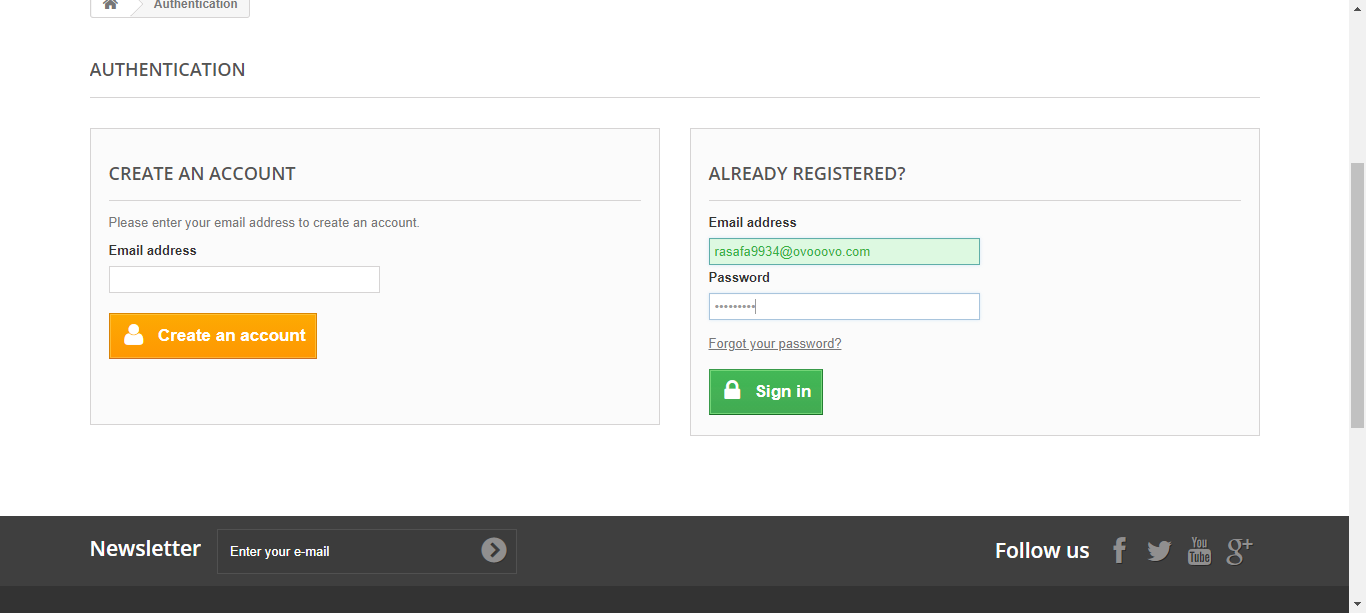
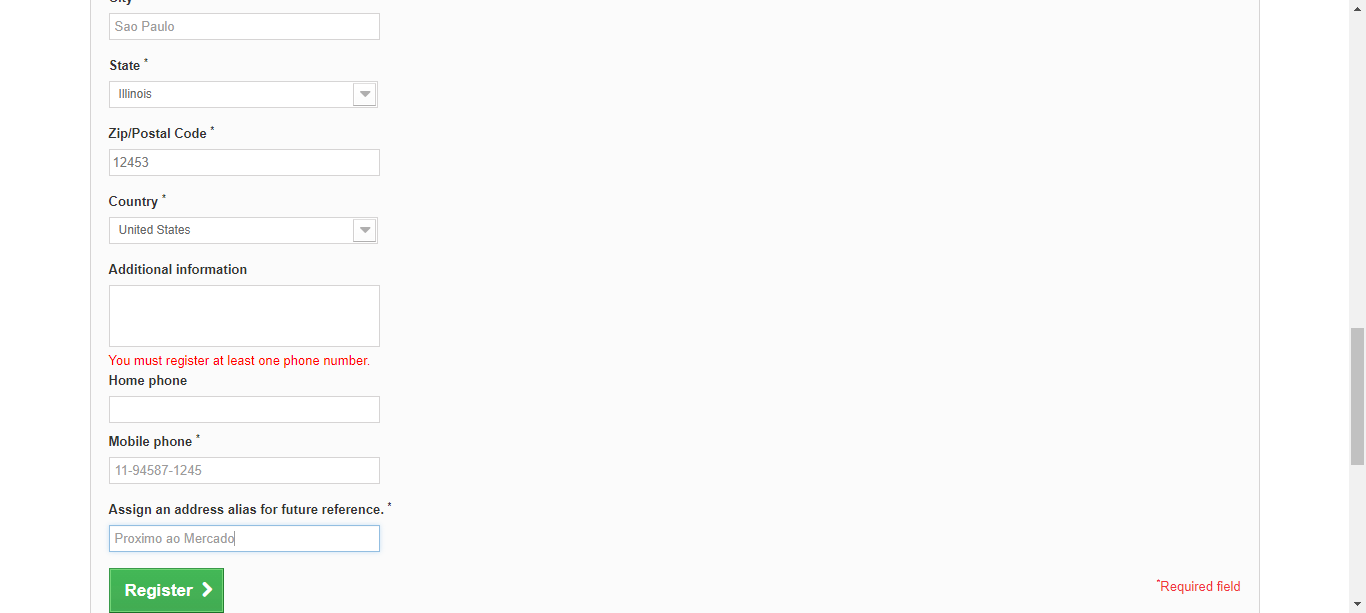
Automação site Automation

diff --git a/log.html b/log.html
@@ -1796,25 +1796,25 @@ function stopPropagation(event) {
 window.output = {};
 </script>
 <script type="text/javascript">
-window.output["suite"] = [1,2,3,0,[],[1,0,11512],[],[[4,0,0,[],[1,208,11302],[[0,5,6,0,7,8,0,0,[1,209,4960],[[8,210,2,9]]],[0,10,6,0,11,0,0,0,[1,5169,132],[]],[0,12,6,0,13,14,0,0,[1,5302,1602],[[8,5303,2,15]]],[0,16,6,0,17,18,0,0,[1,6905,141],[[8,6905,2,19]]],[0,16,6,0,17,20,0,0,[1,7047,134],[[8,7048,2,21]]],[0,22,6,0,23,0,0,0,[1,7182,204],[[8,7386,2,24]]],[0,12,6,0,13,25,0,0,[1,7388,1643],[[8,7389,2,26]]],[0,27,6,0,28,29,0,0,[1,9034,36],[[8,9070,2,30]]],[0,22,6,0,23,0,0,0,[1,9071,195],[[8,9266,2,31]]],[0,32,6,0,33,0,0,0,[1,9267,2242],[]]]]],[],[1,1,0,0]];
+window.output["suite"] = [1,2,3,0,[],[1,0,14522],[],[[4,0,0,[],[1,212,14306],[[0,5,6,0,7,8,0,0,[1,213,4548],[[8,214,2,9]]],[0,10,6,0,11,0,0,0,[1,4761,161],[]],[0,12,6,0,13,14,0,0,[1,4925,10],[]],[0,15,6,0,16,17,0,0,[1,4936,1239],[[8,4937,2,18]]],[0,19,6,0,20,21,0,0,[1,6176,483],[]],[0,22,6,0,23,24,0,0,[1,6660,117],[[8,6661,2,25]]],[0,15,6,0,16,26,0,0,[1,6778,69],[[8,6778,2,27]]],[0,19,6,0,20,28,0,0,[1,6847,1345],[]],[0,15,6,0,16,28,0,0,[1,8193,63],[[8,8193,2,29]]],[0,19,6,0,20,30,0,0,[1,8257,26],[]],[0,22,6,0,23,31,0,0,[1,8283,114],[[8,8283,2,32]]],[0,15,6,0,16,33,0,0,[1,8397,67],[[8,8397,2,34]]],[0,22,6,0,23,35,0,0,[1,8464,84],[[8,8465,2,36]]],[0,19,6,0,20,37,0,0,[1,8549,28],[]],[0,22,6,0,23,38,0,0,[1,8578,159],[[8,8578,2,39]]],[0,40,6,0,41,42,0,0,[1,8740,94],[[8,8741,2,43]]],[0,40,6,0,41,44,0,0,[1,8835,93],[[8,8836,2,45]]],[0,40,6,0,41,46,0,0,[1,8928,99],[[8,8929,2,47]]],[0,15,6,0,16,48,0,0,[1,9027,70],[[8,9028,2,49]]],[0,22,6,0,23,50,0,0,[1,9097,80],[[8,9098,2,51]]],[0,19,6,0,20,48,0,0,[1,9178,20],[]],[0,15,6,0,16,52,0,0,[1,9198,63],[[8,9199,2,53]]],[0,22,6,0,23,54,0,0,[1,9262,80],[[8,9262,2,55]]],[0,19,6,0,20,52,0,0,[1,9343,22],[]],[0,56,6,0,57,58,0,0,[1,9365,305],[]],[0,40,6,0,41,59,0,0,[1,9671,95],[[8,9671,2,60]]],[0,15,6,0,16,61,0,0,[1,9767,85],[[8,9768,2,62]]],[0,22,6,0,23,63,0,0,[1,9853,79],[[8,9853,2,64]]],[0,40,6,0,41,65,0,0,[1,9932,55],[[8,9933,2,66]]],[0,15,6,0,16,58,0,0,[1,9987,61],[[8,9988,2,67]]],[0,22,6,0,23,68,0,0,[1,10049,78],[[8,10050,2,69]]],[0,56,6,0,57,70,0,0,[1,10127,284],[]],[0,15,6,0,16,71,0,0,[1,10413,76],[[8,10414,2,72]]],[0,22,6,0,23,73,0,0,[1,10491,104],[[8,10492,2,74]]],[0,75,6,0,76,0,0,0,[1,10596,120],[[8,10716,2,77]]],[0,15,6,0,16,70,0,0,[1,10718,1288],[[8,10718,2,78]]],[0,79,6,0,80,81,0,0,[1,12007,25],[[8,12032,2,82]]],[0,75,6,0,76,0,0,0,[1,12032,210],[[8,12242,2,83]]],[0,84,6,0,85,0,0,0,[1,12244,2272],[]]]]],[],[1,1,0,0]];
 </script>
 <script type="text/javascript">
 window.output["strings"] = [];
 </script>
 <script type="text/javascript">
-window.output["strings"] = window.output["strings"].concat(["*","*Login","*C:\\Users\\rillipronti\\Desktop\\SISTreinamento\\test\\Login.robot","*test/Login.robot","*Cenario: Login na aplicação","*Open Browser","*SeleniumLibrary","*<p>Opens a new browser instance to the optional <code>url\x3c/code>.\x3c/p>","*<a href=\"http://automationpractice.com/index.php\">http://automationpractice.com/index.php\x3c/a>, chrome","*Opening browser 'chrome' to base url '<a href=\"http://automationpractice.com/index.php\">http://automationpractice.com/index.php\x3c/a>'.","*Maximize Browser Window","*<p>Maximizes current browser window.\x3c/p>","*Click Element","*<p>Click the element identified by <code>locator\x3c/code>.\x3c/p>","*xpath=//a[@class='login']","*Clicking element 'xpath=//a[@class='login']'.","*Input Text","*<p>Types the given <code>text\x3c/code> into the text field identified by <code>locator\x3c/code>.\x3c/p>","*id=email, rasafa9934@ovooovo.com","*Typing text 'rasafa9934@ovooovo.com' into text field 'id=email'.","*id=passwd, Teste@123","*Typing text 'Teste@123' into text field 'id=passwd'.","*Capture Page Screenshot","*<p>Takes a screenshot of the current page and embeds it into a log file.\x3c/p>","*\x3c/td>\x3c/tr><tr><td colspan=\"3\"><a href=\"selenium-screenshot-1.png\"><img src=\"selenium-screenshot-1.png\" width=\"800px\">\x3c/a>","*id=SubmitLogin","*Clicking element 'id=SubmitLogin'.","*Page Should Contain","*<p>Verifies that current page contains <code>text\x3c/code>.\x3c/p>","*Marcos, Barbos","*Current page contains text 'Marcos'.","*\x3c/td>\x3c/tr><tr><td colspan=\"3\"><a href=\"selenium-screenshot-2.png\"><img src=\"selenium-screenshot-2.png\" width=\"800px\">\x3c/a>","*Close Browser","*<p>Closes the current browser.\x3c/p>"]);
+window.output["strings"] = window.output["strings"].concat(["*","*Cadastro","*C:\\Users\\rillipronti\\Desktop\\SISTreinamento\\test\\Cadastro.robot","*test/Cadastro.robot","*Cenario: Login na aplicação","*Open Browser","*SeleniumLibrary","*<p>Opens a new browser instance to the optional <code>url\x3c/code>.\x3c/p>","*<a href=\"http://automationpractice.com/index.php\">http://automationpractice.com/index.php\x3c/a>, chrome","*Opening browser 'chrome' to base url '<a href=\"http://automationpractice.com/index.php\">http://automationpractice.com/index.php\x3c/a>'.","*Maximize Browser Window","*<p>Maximizes current browser window.\x3c/p>","*Set Selenium Timeout","*<p>Sets the timeout that is used by various keywords.\x3c/p>","*60","*Click Element","*<p>Click the element identified by <code>locator\x3c/code>.\x3c/p>","*xpath=//a[@class='login']","*Clicking element 'xpath=//a[@class='login']'.","*Wait Until Element Is Visible","*<p>Waits until the element <code>locator\x3c/code> is visible.\x3c/p>","*id=email_create","*Input Text","*<p>Types the given <code>text\x3c/code> into the text field identified by <code>locator\x3c/code>.\x3c/p>","*id=email_create, tohov63129423897@dedatre.com","*Typing text 'tohov63129423897@dedatre.com' into text field 'id=email_create'.","*xpath=//button[@class='btn btn-default button button-medium exclusive']","*Clicking element 'xpath=//button[@class='btn btn-default button button-medium exclusive']'.","*id=id_gender1","*Clicking element 'id=id_gender1'.","*id=customer_firstname","*id=customer_firstname, Renan","*Typing text 'Renan' into text field 'id=customer_firstname'.","*id=customer_lastname","*Clicking element 'id=customer_lastname'.","*id=customer_lastname, Illipronti","*Typing text 'Illipronti' into text field 'id=customer_lastname'.","*id=passwd","*id=passwd, 12345@6","*Typing text '12345@6' into text field 'id=passwd'.","*Select From List By Value","*<p>Selects options from selection list <code>locator\x3c/code> by <code>values\x3c/code>.\x3c/p>","*id:days, 22","*Selecting options from selection list 'id:days' by value 22.","*id:months, 1","*Selecting options from selection list 'id:months' by value 1.","*id:years, 1990","*Selecting options from selection list 'id:years' by value 1990.","*id=address1","*Clicking element 'id=address1'.","*id=address1, Rua Abcd, nº100","*Typing text 'Rua Abcd, nº100' into text field 'id=address1'.","*id=city","*Clicking element 'id=city'.","*id=city, Sao Paulo","*Typing text 'Sao Paulo' into text field 'id=city'.","*Scroll Element Into View","*<p>Scrolls the element identified by <code>locator\x3c/code> into view.\x3c/p>","*id=phone_mobile","*id:id_state, 13","*Selecting options from selection list 'id:id_state' by value 13.","*id=postcode","*Clicking element 'id=postcode'.","*id=postcode, 12453","*Typing text '12453' into text field 'id=postcode'.","*id:id_country, 21","*Selecting options from selection list 'id:id_country' by value 21.","*Clicking element 'id=phone_mobile'.","*id=phone_mobile, 11-94587-1245","*Typing text '11-94587-1245' into text field 'id=phone_mobile'.","*id=submitAccount","*id=alias","*Clicking element 'id=alias'.","*id=alias, Proximo ao Mercado","*Typing text 'Proximo ao Mercado' into text field 'id=alias'.","*Capture Page Screenshot","*<p>Takes a screenshot of the current page and embeds it into a log file.\x3c/p>","*\x3c/td>\x3c/tr><tr><td colspan=\"3\"><a href=\"selenium-screenshot-1.png\"><img src=\"selenium-screenshot-1.png\" width=\"800px\">\x3c/a>","*Clicking element 'id=submitAccount'.","*Page Should Contain","*<p>Verifies that current page contains <code>text\x3c/code>.\x3c/p>","*Renan, Illipronti","*Current page contains text 'Renan'.","*\x3c/td>\x3c/tr><tr><td colspan=\"3\"><a href=\"selenium-screenshot-2.png\"><img src=\"selenium-screenshot-2.png\" width=\"800px\">\x3c/a>","*Close Browser","*<p>Closes the current browser.\x3c/p>"]);
 </script>
 <script type="text/javascript">
-window.output["stats"] = [[{"elapsed":"00:00:11","fail":0,"label":"All Tests","pass":1,"skip":0}],[],[{"elapsed":"00:00:12","fail":0,"id":"s1","label":"Login","name":"Login","pass":1,"skip":0}]];
+window.output["stats"] = [[{"elapsed":"00:00:14","fail":0,"label":"All Tests","pass":1,"skip":0}],[],[{"elapsed":"00:00:15","fail":0,"id":"s1","label":"Cadastro","name":"Cadastro","pass":1,"skip":0}]];
 </script>
 <script type="text/javascript">
 window.output["errors"] = [];
 </script>
 <script type="text/javascript">
-window.output["baseMillis"] = 1626739334614;
+window.output["baseMillis"] = 1626822029169;
 </script>
 <script type="text/javascript">
-window.output["generated"] = 11521;
+window.output["generated"] = 14537;
 </script>
 <script type="text/javascript">
 window.output["expand_keywords"] = null;

diff --git a/report.html b/report.html
@@ -1625,22 +1625,22 @@ storage = function () {
 window.output = {};
 </script>
 <script type="text/javascript">
-window.output["suite"] = [1,2,3,0,[],[1,0,11512],[],[[4,0,0,[],[1,208,11302],[]]],[],[1,1,0,0]];
+window.output["suite"] = [1,2,3,0,[],[1,0,14522],[],[[4,0,0,[],[1,212,14306],[]]],[],[1,1,0,0]];
 </script>
 <script type="text/javascript">
 window.output["strings"] = [];
 </script>
 <script type="text/javascript">
-window.output["strings"] = window.output["strings"].concat(["*","*Login","*C:\\Users\\rillipronti\\Desktop\\SISTreinamento\\test\\Login.robot","*test/Login.robot","*Cenario: Login na aplicação"]);
+window.output["strings"] = window.output["strings"].concat(["*","*Cadastro","*C:\\Users\\rillipronti\\Desktop\\SISTreinamento\\test\\Cadastro.robot","*test/Cadastro.robot","*Cenario: Login na aplicação"]);
 </script>
 <script type="text/javascript">
-window.output["stats"] = [[{"elapsed":"00:00:11","fail":0,"label":"All Tests","pass":1,"skip":0}],[],[{"elapsed":"00:00:12","fail":0,"id":"s1","label":"Login","name":"Login","pass":1,"skip":0}]];
+window.output["stats"] = [[{"elapsed":"00:00:14","fail":0,"label":"All Tests","pass":1,"skip":0}],[],[{"elapsed":"00:00:15","fail":0,"id":"s1","label":"Cadastro","name":"Cadastro","pass":1,"skip":0}]];
 </script>
 <script type="text/javascript">
-window.output["baseMillis"] = 1626739334614;
+window.output["baseMillis"] = 1626822029169;
 </script>
 <script type="text/javascript">
-window.output["generated"] = 11521;
+window.output["generated"] = 14537;
 </script>
 <script type="text/javascript">
 window.output["expand_keywords"] = null;
